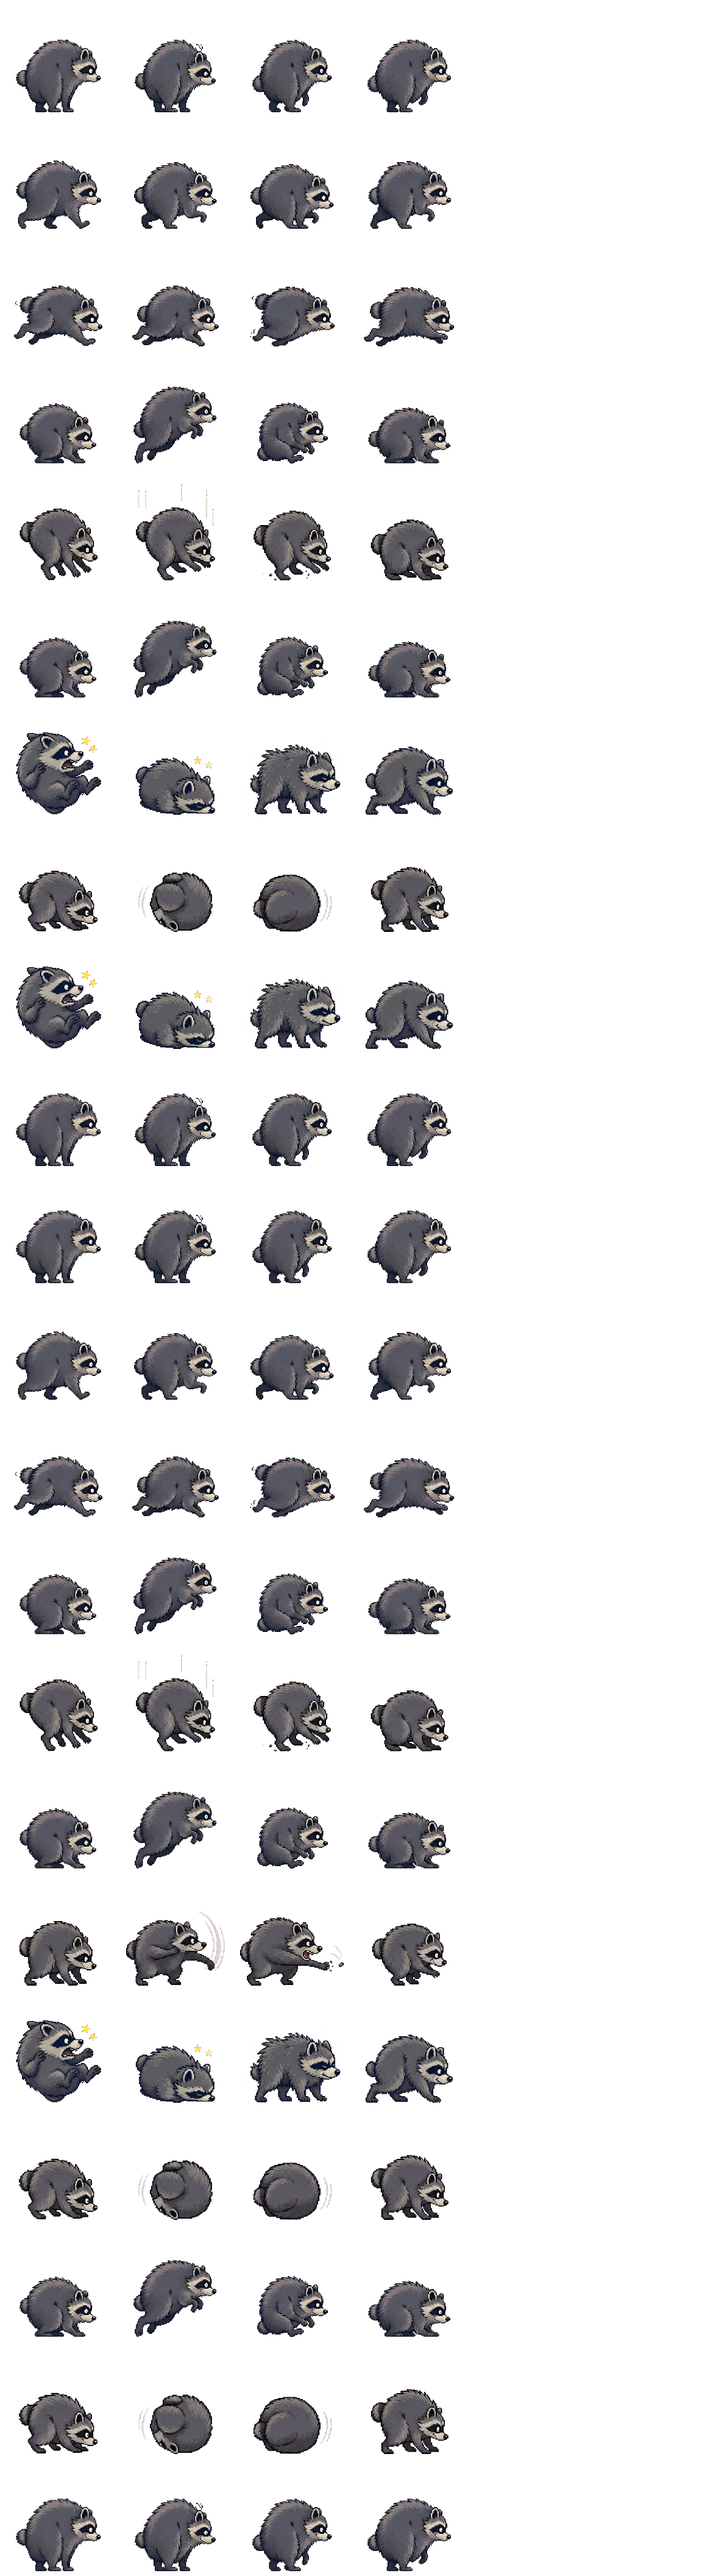
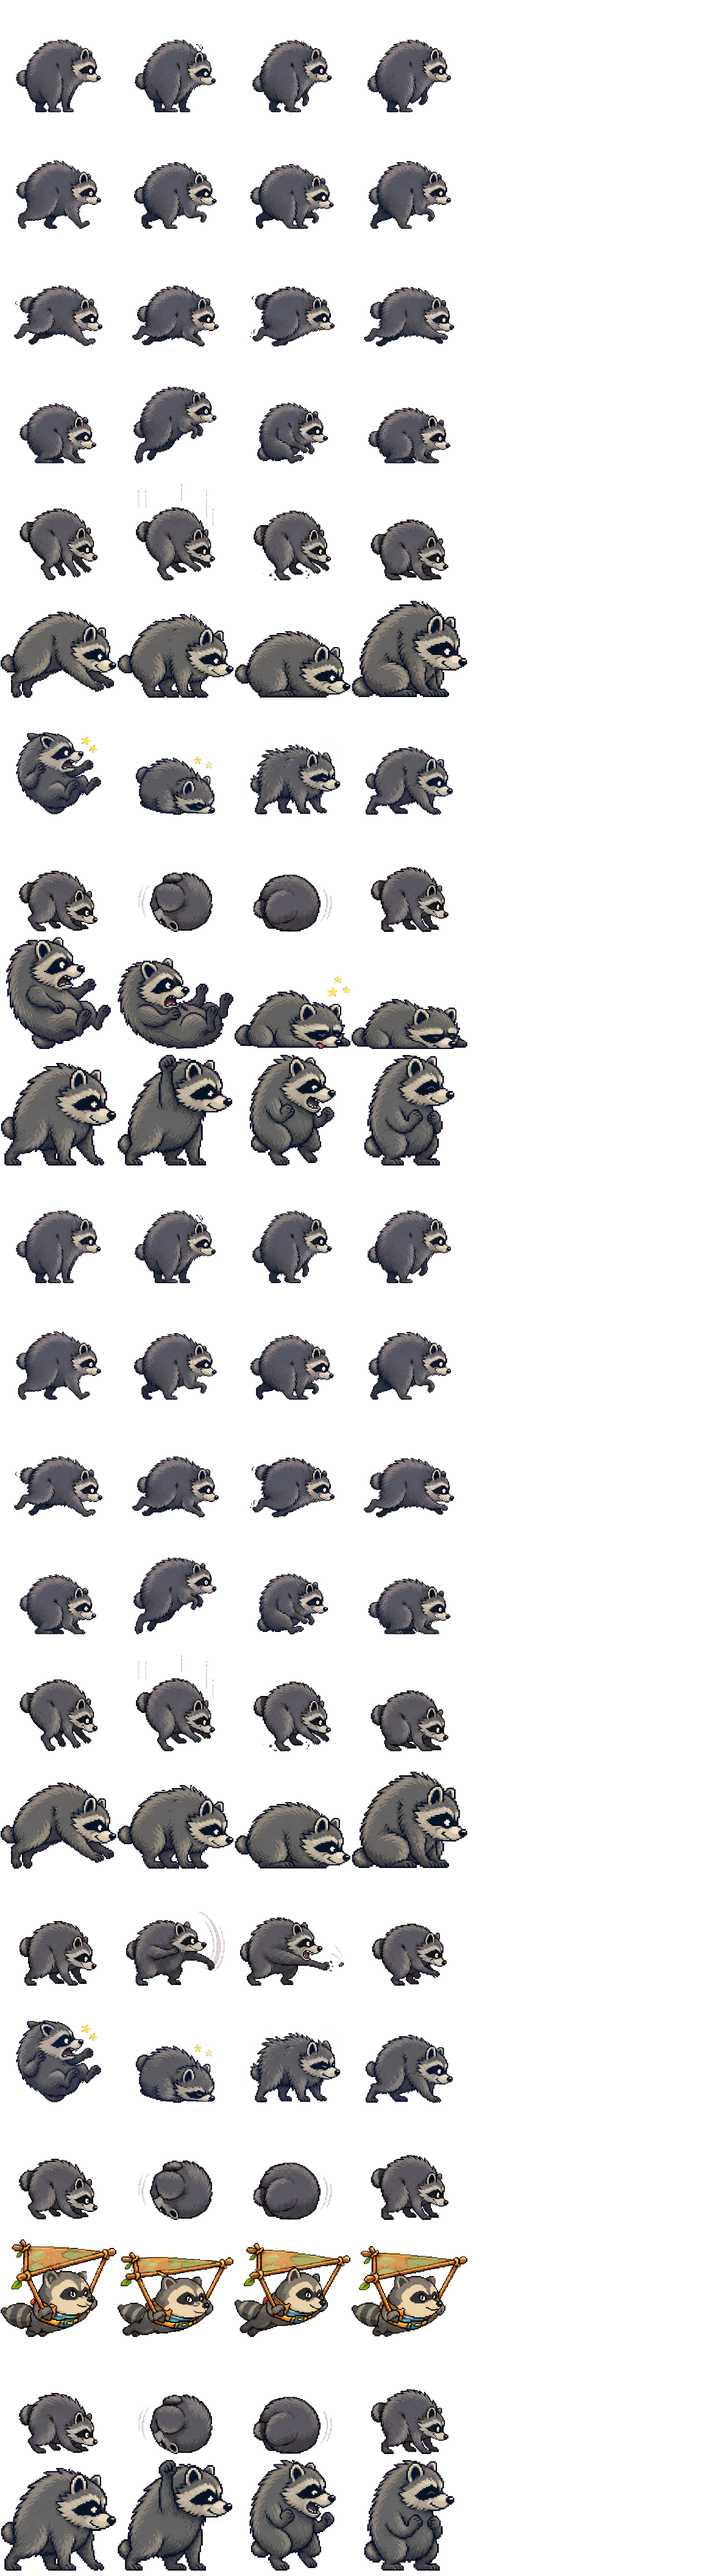
fix: repair Jimothy state ownership and pit defeat

diff --git a/app/trash-dash-game.tsx b/app/trash-dash-game.tsx
@@ -20,6 +20,7 @@ import {
   advanceHurtTimer,
   beginPlayerHurt,
   nextEnemyIntent,
+  presentPitDefeat,
   resolvePitFall,
 } from "./gameplay-animation-state.mjs";
 import {
@@ -1422,7 +1423,11 @@ export function TrashDashGame() {
 
     const handlePitFall = (world: World) => {
       const player = world.player;
-      const pit = resolvePitFall(world.lives);
+      const profile = getPlayableCharacter(world.selectedCharacterId);
+      const pit = presentPitDefeat({
+        pit: resolvePitFall(world.lives),
+        defeatAnimation: profile.animations.small_defeat,
+      });
       world.lives = pit.lives;
       transformPlayer(player, false);
       player.hurtTimer = 0;
@@ -1430,13 +1435,21 @@ export function TrashDashGame() {
       player.attackTimer = 0;
       player.glider = 0;
       player.shrinkTimer = 0;
-      player.endSequence = null;
-      player.endTimer = 0;
       burst(world, player.x + player.w / 2, HEIGHT - 8, "#f6d477", 11);
       tone(100, 0.2, "sawtooth");
 
       if (pit.outcome === "respawn") respawn(world);
-      else changeScreen("gameover");
+      else {
+        // Pit loss is immediate (one paw, no hurt/shrink/respawn), but its
+        // locally committed animation must play before changing screens.
+        player.endSequence = "gameover";
+        player.endTimer = pit.duration;
+        player.animationName = pit.animationName;
+        player.animationElapsed = 0;
+        player.vx = 0;
+        player.vy = 0;
+        player.grounded = true;
+      }
     };
 
     const setBossState = (

diff --git a/.superpowers/sdd/2026-08-09-game-wide-integrity-repair/task-3-report.md b/.superpowers/sdd/2026-08-09-game-wide-integrity-repair/task-3-report.md
@@ -2,9 +2,10 @@
 
 ## Status
 
-`DONE_WITH_CONCERNS` — deterministic/player-contract evidence is green;
-controller-attributed normal-spawn idle verification passed, while
-keyboard-driven action and both-facing runtime sequences remain `CANNOT VERIFY`.
+`DONE_WITH_CONCERNS` — deterministic/player-contract evidence is green,
+including the Round-1 source-state and pit-defeat repairs; controller-attributed
+normal-spawn idle verification passed, while keyboard-driven action and
+both-facing runtime sequences remain `CANNOT VERIFY`.
 
 ## RED evidence
 
@@ -17,6 +18,10 @@ keyboard-driven action and both-facing runtime sequences remain `CANNOT VERIFY`.
 - The task's atlas assertions failed before the repair: Jimothy
   `small_idle:0` ended at source row 170 instead of 183, and the legacy player
   manifests used unequal destination axes such as 142×112 tail swipe.
+- Round-1 RED: focused source identity regressions could not import a Jimothy
+  semantic-source manifest, and pit-presentation regressions could not import
+  a terminal `small_defeat` sequence. Review also proved the old builder routed
+  named land/defeat/victory and `large_glide` through incompatible legacy rows.
 
 ## GREEN implementation and measurements
 
@@ -31,14 +36,27 @@ keyboard-driven action and both-facing runtime sequences remain `CANNOT VERIFY`.
   resolved player entries from `MEASURED_RUNTIME_DISTORTION_FRAMES`.
 - Two consecutive rebuilds produced identical SHA-256 values for all five
   player motion/contact/selection artifacts.
+- Round-1 authored four coherent Jimothy-specific pixel-art rows — land,
+  defeat, victory, and large glide — against a flat chroma key, then removed
+  that key with the deterministic chroma helper. The source-state manifest is
+  consumed directly by the builder and regression-tested; small/large land and
+  victory share only their semantically matching row, while `large_glide`
+  uniquely owns the canopy-glider row.
+- Round-1 terminal pit falls now retain the immediate one-paw loss semantics
+  but commit the selected character's `small_defeat` (four frames at its local
+  FPS) before gameover. Hurt, shrink, and respawn remain cleared on that path.
+- Round-1 repeat-build SHA-256 values matched for Trashy motion/contact and
+  Jimothy motion/contact/private atlas: `cd5712057…`, `4589a51e…`, and
+  `64d707831…` respectively (Jimothy's three identical atlas copies share the
+  final hash).
 
 ## Verification
 
 - RED matrix: `node --test tests/player-animation.test.mjs tests/player-hero-atlas.test.mjs tests/jimothy-player-atlas.test.mjs tests/character-gameplay.test.mjs` — 3 failures (missing shared atlas export and two baseline violations).
-- GREEN focused player and Task 2 visual-contract matrix — 40 passed, 0 failed.
+- GREEN focused player, pit-state, and Task 2 visual-contract matrix — 51 passed, 0 failed.
 - `npm run validate:skills` — passed.
 - `npm run lint` — 0 errors; one pre-existing Next `<img>` performance warning.
-- `npm test` — 250 passed, 0 failed; production build completed.
+- `npm test` — 253 passed, 0 failed; production build completed.
 - Static contact-sheet QA: inspected both regenerated sheets at native size;
   complete silhouettes stay inset and share the baseline. Both-facing behavior
   is covered by the destination-center flip contract and regression.
@@ -62,17 +80,19 @@ keyboard-driven action and both-facing runtime sequences remain `CANNOT VERIFY`.
 | VIS-005 measured source/destination/anchor checks | PASS — zero remaining player mismatch entries |
 | Controller normal-spawn idle route, Trashy and Jimothy | PASS — 1280×720 DPR 2 debug-bound screenshots; no browser warning/error logs |
 | Keyboard-driven actions and repeated both-facing runtime sequences | CANNOT VERIFY — keyboard action automation unavailable |
+| Jimothy source-state contact-sheet repair | PASS — authored land/defeat/victory/glide rows are distinct, alpha-clean, baseline-normalized, and visually inspected |
+| Terminal pit-defeat state/timer | PASS — pure transition tests prove a four-frame `small_defeat` before gameover while preserving one-paw instant death |
 
 `docs/visual-audit.md` narrows VIS-005 accordingly and retains the complete
 runtime route/state matrix for a browser-equipped follow-up.
 
 ## Scope and self-review
 
-The commit contains only Task 3 player manifests/profiles, the exact renderer
-compensation hunk, deterministic player builders and generated outputs, focused
-tests, visual-inventory/audit evidence, and this report. Existing dirty Level
-1/Level 2 and shared renderer work was not staged or altered. No unrelated
-untracked Jimothy sources/documentation were included.
+The commits contain only Task 3 player manifests/profiles, the exact renderer
+compensation and pit-sequence hunks, deterministic player builders and
+generated outputs, focused tests, visual-inventory/audit evidence, and this
+report. Existing dirty Level 1/Level 2 and shared renderer work was not staged
+or altered. No unrelated untracked Jimothy sources/documentation were included.
 
 ## Commit
 

diff --git a/docs/visual-audit.md b/docs/visual-audit.md
@@ -408,6 +408,18 @@ Verification:
   to the form/state), `offsetY` is derived from that same 184 baseline, and the
   bottom-center renderer no longer applies a grounded-only compensation. Right
   is authored and left flips around the unchanged destination center.
+- Round-1 source-state repair: four Jimothy-specific, right-authored pixel-art
+  strips were generated against a removable chroma key, deterministically
+  converted to RGBA, and inspected in the rebuilt contact sheet. The source
+  identity manifest gives land, defeat, victory, and large glide distinct
+  semantic ownership (small/large land and victory share only their compatible
+  named rows); the glide cells show the bamboo canopy, never a jump pose.
+  Regression coverage asserts the exact source mapping and alpha-bearing strips
+  so these states cannot silently borrow legacy jump, hurt, or idle rows.
+- Round-1 pit repair: terminal pit falls still consume exactly one paw without
+  hurt, shrink, or respawn, then commit the selected profile's `small_defeat`
+  for its four-frame local duration before changing to game over. Pure state
+  tests cover both terminal and non-terminal outcomes.
 - Automated verification: the shared reachable-state contract covers all small
   and large states, atlas bounds, one-shot clamping, maximum envelopes, and
   both-facing anchors. The focused player plus visual-contract/asset/inventory
